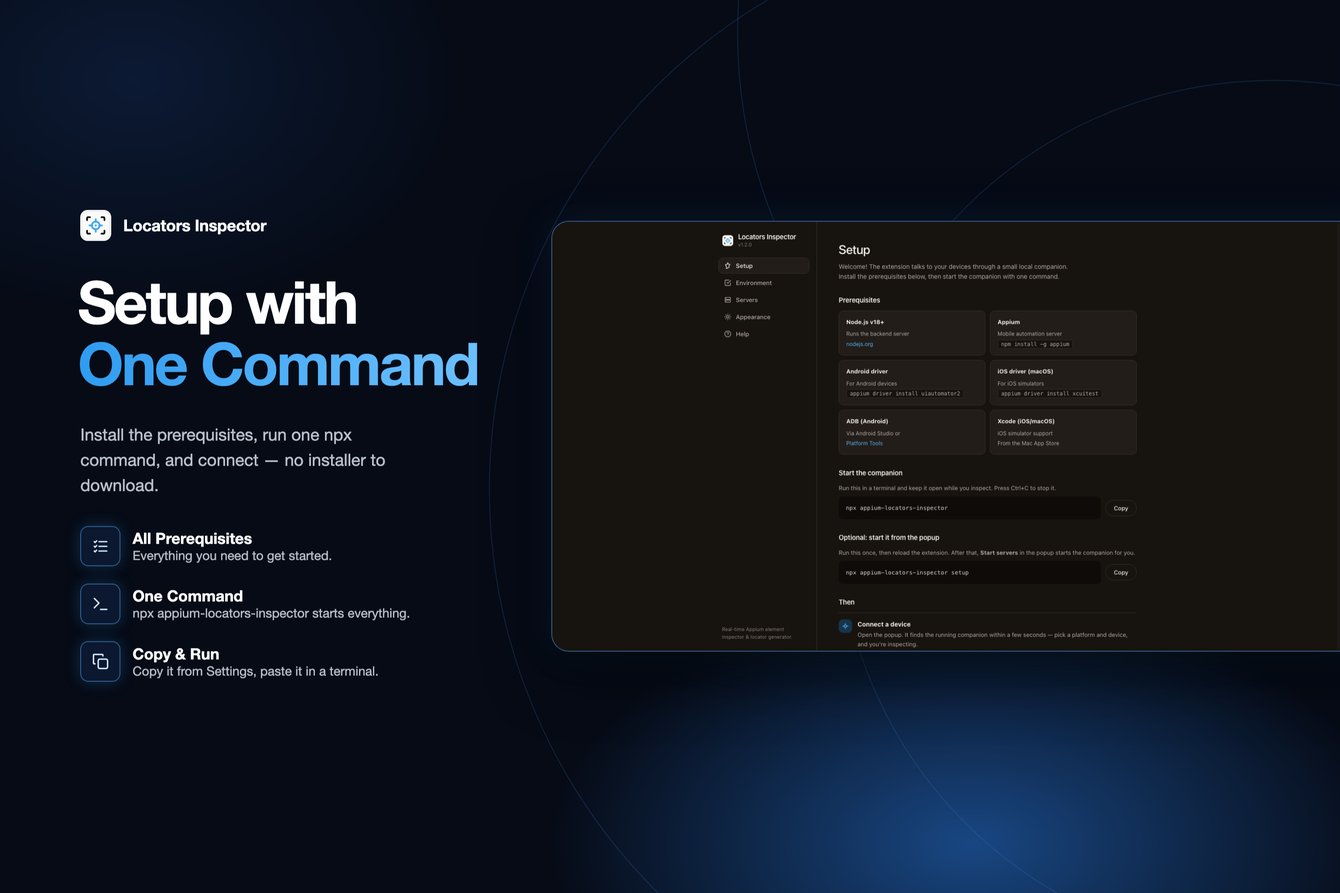
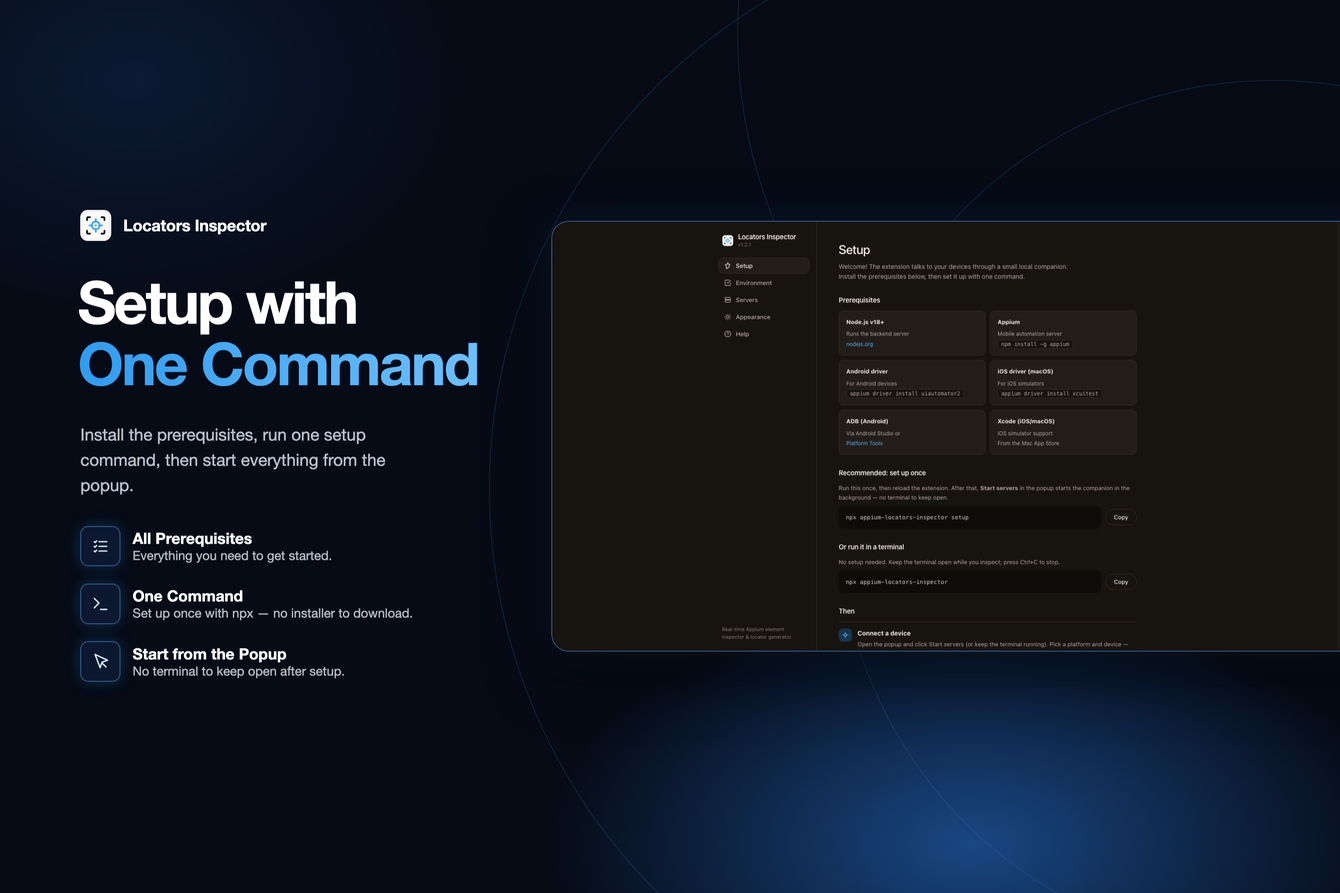
feat: recommend one-time setup over a terminal (v1.2.1) (#5)
`setup` lets the popup's Start servers run the companion in the
background, which suits everyday use better than keeping a terminal
open. Make it the recommended path everywhere:

- options Setup pane: "Recommended: set up once" first, then "Or run it
  in a terminal"
- popup setup modal: setup command first (with --extension-id for
  unpacked builds), terminal command second
- CLI: help lists setup as recommended; a foreground run suggests setup
  when it has not been done
- environment check, README and npm README follow the same order
- fix: "Connect a device" hint wrapped mid-sentence (<strong> is a block
  in .hint-row)
- docs: refreshed setup screenshot and hero image

diff --git a/tests/extension/pages.parity.test.ts b/tests/extension/pages.parity.test.ts
@@ -106,7 +106,7 @@ describe('popup UI parity', () => {
 
 /* ── Popup: npx companion (new in 1.2.0, no legacy equivalent) ── */
 describe('popup with the npx companion', () => {
-    const setupReply = { success: false, code: 'COMPANION_SETUP_REQUIRED', error: 'Start the local companion with: npx appium-locators-inspector' };
+    const setupReply = { success: false, code: 'COMPANION_SETUP_REQUIRED', error: 'Set up the local companion once with: npx appium-locators-inspector setup' };
 
     async function openModern(state: Parameters<typeof popupOptions>[0]): Promise<Page> {
         const page = await openPage(popupOptions(state), { modern: ['popup/popup.ts'] });
@@ -114,17 +114,22 @@ describe('popup with the npx companion', () => {
         return page;
     }
 
-    it('shows the npx command with a Copy button when nothing is running', async () => {
+    it('recommends setup first, then the terminal command, when nothing is running', async () => {
         const page = await openModern({ backend: false, appium: false, serverReply: setupReply });
         click(page, page.document.getElementById('server-btn'));
         await page.settle();
         const modal = page.document.getElementById('error-modal')!;
         expect(modal.classList.contains('hidden')).toBe(false);
         expect(page.document.getElementById('error-modal-title')!.textContent).toBe('Start the companion');
-        expect(modal.querySelector('.cmd-code')!.textContent).toBe('npx appium-locators-inspector');
-        click(page, modal.querySelector('.cmd-row button'));
+        const items = Array.from(modal.querySelectorAll('.error-item'));
+        expect(items.map((i) => i.querySelector('.error-server')!.textContent)).toEqual(['Recommended: set up once', 'Or run it in a terminal']);
+        expect(items.map((i) => i.querySelector('.cmd-code')!.textContent)).toEqual([
+            'npx appium-locators-inspector setup --extension-id testextensionidaaaaaaaaaaaaaaaa',
+            'npx appium-locators-inspector'
+        ]);
+        for (const item of items) click(page, item.querySelector('.cmd-row button'));
         await page.settle();
-        expect(page.clipboard).toEqual(['npx appium-locators-inspector']);
+        expect(page.clipboard).toEqual(['npx appium-locators-inspector setup --extension-id testextensionidaaaaaaaaaaaaaaaa', 'npx appium-locators-inspector']);
         click(page, page.document.getElementById('error-help-btn'));
         expect(page.runtimeMessages.some((m) => m.type === '__openOptionsPage')).toBe(true);
     });
@@ -232,13 +237,15 @@ describe('options page with the npx companion', () => {
         return page;
     }
 
-    it('shows copyable start and setup commands for this extension ID', async () => {
+    it('shows setup as the recommended command, then the terminal command', async () => {
         const page = await openModern({ success: true, checks: [] });
-        expect(page.document.getElementById('cmd-start')!.textContent).toBe('npx appium-locators-inspector');
+        const headings = Array.from(page.document.querySelectorAll('#pane-setup h3')).map((h) => h.textContent);
+        expect(headings).toEqual(['Prerequisites', 'Recommended: set up once', 'Or run it in a terminal', 'Then']);
         expect(page.document.getElementById('cmd-setup')!.textContent).toBe('npx appium-locators-inspector setup --extension-id testextensionidaaaaaaaaaaaaaaaa');
+        expect(page.document.getElementById('cmd-start')!.textContent).toBe('npx appium-locators-inspector');
         for (const btn of Array.from(page.document.querySelectorAll('.cmd-copy'))) click(page, btn);
         await page.settle();
-        expect(page.clipboard).toEqual(['npx appium-locators-inspector', 'npx appium-locators-inspector setup --extension-id testextensionidaaaaaaaaaaaaaaaa']);
+        expect(page.clipboard).toEqual(['npx appium-locators-inspector setup --extension-id testextensionidaaaaaaaaaaaaaaaa', 'npx appium-locators-inspector']);
         expect(page.document.querySelector('.cmd-copy')!.textContent).toBe('Copied!');
         expect(page.document.getElementById('download-mac')).toBeNull();
         expect(page.document.querySelector('.rail-brand .ver')!.textContent).toBe('v1.0.0');
@@ -255,7 +262,7 @@ describe('options page with the npx companion', () => {
         await page.settle(20);
         const text = page.document.getElementById('check-result')!.textContent!;
         expect(text).toContain('All good');
-        expect(text).toContain('optional — run npx appium-locators-inspector setup to enable it');
+        expect(text).toContain('recommended — run npx appium-locators-inspector setup --extension-id testextensionidaaaaaaaaaaaaaaaa so the popup starts the companion without a terminal');
         expect(page.document.getElementById('check-result')!.innerHTML).toContain('adb &lt;sdk&gt;');
     });
 
@@ -265,6 +272,7 @@ describe('options page with the npx companion', () => {
         await page.settle(20);
         const text = page.document.getElementById('check-result')!.textContent!;
         expect(text).toContain('2 items need attention.');
-        expect(text).toContain('not running — run npx appium-locators-inspector');
+        expect(text).toContain('not set up — run npx appium-locators-inspector setup --extension-id testextensionidaaaaaaaaaaaaaaaa (recommended), or npx appium-locators-inspector');
+        expect(text).toContain('not running — click Start servers in the popup, or run npx appium-locators-inspector');
     });
 });

diff --git a/src/extension/options.html b/src/extension/options.html
@@ -325,7 +325,7 @@
             <!-- Setup -->
             <section class="settings-pane active" id="pane-setup">
                 <h1 class="pane-title">Setup</h1>
-                <p class="pane-lead">Welcome! The extension talks to your devices through a small local companion. Install the prerequisites below, then start the companion with one command.</p>
+                <p class="pane-lead">Welcome! The extension talks to your devices through a small local companion. Install the prerequisites below, then set it up with one command.</p>
 
                 <h3>Prerequisites</h3>
                 <div class="prereq-grid">
@@ -337,24 +337,24 @@
                     <div class="prereq-item"><strong>Xcode (iOS/macOS)</strong><span>iOS simulator support<br>From the Mac App Store</span></div>
                 </div>
 
-                <h3>Start the companion</h3>
-                <p class="cmd-note">Run this in a terminal and keep it open while you inspect. Press Ctrl+C to stop it.</p>
-                <div class="cmd-row">
-                    <pre><code id="cmd-start">npx appium-locators-inspector</code></pre>
-                    <button class="btn btn-secondary cmd-copy" data-copy="cmd-start" type="button">Copy</button>
-                </div>
-
-                <h3>Optional: start it from the popup</h3>
-                <p class="cmd-note">Run this once, then reload the extension. After that, <strong>Start servers</strong> in the popup starts the companion for you.</p>
+                <h3>Recommended: set up once</h3>
+                <p class="cmd-note">Run this once, then reload the extension. After that, <strong>Start servers</strong> in the popup starts the companion in the background — no terminal to keep open.</p>
                 <div class="cmd-row">
                     <pre><code id="cmd-setup">npx appium-locators-inspector setup</code></pre>
                     <button class="btn btn-secondary cmd-copy" data-copy="cmd-setup" type="button">Copy</button>
                 </div>
 
+                <h3>Or run it in a terminal</h3>
+                <p class="cmd-note">No setup needed. Keep the terminal open while you inspect; press Ctrl+C to stop.</p>
+                <div class="cmd-row">
+                    <pre><code id="cmd-start">npx appium-locators-inspector</code></pre>
+                    <button class="btn btn-secondary cmd-copy" data-copy="cmd-start" type="button">Copy</button>
+                </div>
+
                 <h3>Then</h3>
                 <div class="hint-row">
                     <span class="hint-ico"><svg viewBox="0 0 24 24" fill="none" stroke="currentColor" stroke-width="2" stroke-linecap="round" stroke-linejoin="round"><circle cx="12" cy="12" r="4"/><path d="M12 3v4M12 17v4M3 12h4M17 12h4"/></svg></span>
-                    <div><strong>Connect a device</strong><p>Open the popup. It finds the running companion within a few seconds — pick a platform and device, and you're inspecting.</p></div>
+                    <div><strong>Connect a device</strong><p>Open the popup and click Start servers (or keep the terminal running). Pick a platform and device — and you're inspecting.</p></div>
                 </div>
             </section>
 
@@ -421,8 +421,8 @@
                     <table>
                         <thead><tr><th>Issue</th><th>Solution</th></tr></thead>
                         <tbody>
-                            <tr><td>Popup says the companion isn't running</td><td>Run <code>npx appium-locators-inspector</code> and keep the terminal open.</td></tr>
-                            <tr><td>"Native messaging host not found"</td><td>Only needed for the popup's Start button: run <code>npx appium-locators-inspector setup</code>, then reload the extension.</td></tr>
+                            <tr><td>"Native messaging host not found"</td><td>Run <code>npx appium-locators-inspector setup</code>, then reload the extension.</td></tr>
+                            <tr><td>Start servers does nothing after an update</td><td>Click Stop servers, run <code>npx appium-locators-inspector setup</code> again, then reload the extension.</td></tr>
                             <tr><td>Port 8765 already in use</td><td>Another companion is running. Stop it, or start with <code>--port</code> and set the same port under Settings.</td></tr>
                             <tr><td>Appium not found</td><td><code>npm install -g appium</code></td></tr>
                             <tr><td>No Android devices</td><td>Run <code>adb devices</code> in a terminal. Enable USB debugging.</td></tr>

diff --git a/src/extension/options/environment-check.ts b/src/extension/options/environment-check.ts
@@ -1,5 +1,7 @@
 import type { DiagnosticCheck, SetupDiagnostics } from '../../shared/protocol.js';
-import { NATIVE_HOST_NAME, SETUP_COMMAND, START_COMMAND, STORE_EXTENSION_ID } from '../../shared/defaults.js';
+import { NATIVE_HOST_NAME, setupCommandFor, START_COMMAND } from '../../shared/defaults.js';
+
+export { setupCommandFor };
 import { escapeHtml } from '../lib/html.js';
 import type { SetupCheckResponse } from '../lib/messages.js';
 
@@ -11,10 +13,11 @@ const DIAGNOSTICS_TIMEOUT_MS = 12_000;
  * companion started with npx is already running.
  */
 export function companionChecks(setup: SetupCheckResponse, extensionId: string, backendRunning = false): DiagnosticCheck[] {
+    const setupCommand = setupCommandFor(extensionId);
     if (!setup.success || !setup.diagnostics) {
         return [backendRunning
-            ? { name: 'Start button (native host)', ok: false, warn: true, detail: `optional — run ${SETUP_COMMAND} to enable it` }
-            : { name: 'Companion', ok: false, detail: `not running — run ${START_COMMAND}` }];
+            ? { name: 'Start button (native host)', ok: false, warn: true, detail: `recommended — run ${setupCommand} so the popup starts the companion without a terminal` }
+            : { name: 'Companion', ok: false, detail: `not set up — run ${setupCommand} (recommended), or ${START_COMMAND}` }];
     }
     const d: SetupDiagnostics = setup.diagnostics;
     return [
@@ -23,10 +26,10 @@ export function companionChecks(setup: SetupCheckResponse, extensionId: string, 
         {
             name: 'Backend installed',
             ok: d.backendInstalled,
-            detail: d.backendInstalled ? `${d.companionVersion ? `v${d.companionVersion} · ` : ''}${d.backendPath}` : `missing — run ${SETUP_COMMAND}`
+            detail: d.backendInstalled ? `${d.companionVersion ? `v${d.companionVersion} · ` : ''}${d.backendPath}` : `missing — run ${setupCommand}`
         },
-        { name: 'Dependencies installed', ok: d.dependenciesInstalled, detail: d.dependenciesInstalled ? 'ready' : `run ${SETUP_COMMAND}` },
-        { name: 'Extension ID (allowed_origins)', ok: d.extensionAllowed, detail: `${extensionId}${d.extensionAllowed ? '' : ` — not allowed, run ${SETUP_COMMAND} --extension-id ${extensionId}`}` }
+        { name: 'Dependencies installed', ok: d.dependenciesInstalled, detail: d.dependenciesInstalled ? 'ready' : `run ${setupCommand}` },
+        { name: 'Extension ID (allowed_origins)', ok: d.extensionAllowed, detail: `${extensionId}${d.extensionAllowed ? '' : ` — not allowed, run ${setupCommand}`}` }
     ];
 }
 
@@ -36,7 +39,7 @@ export async function backendChecks(port: string | number): Promise<DiagnosticCh
         const data = (await response.json()) as { success?: boolean; checks?: DiagnosticCheck[] };
         return data.success && Array.isArray(data.checks) ? data.checks : [];
     } catch {
-        return [{ name: 'Backend server', ok: false, detail: `not running — run ${START_COMMAND}` }];
+        return [{ name: 'Backend server', ok: false, detail: `not running — click Start servers in the popup, or run ${START_COMMAND}` }];
     }
 }
 
@@ -59,7 +62,3 @@ export function renderChecks(checks: DiagnosticCheck[]): string {
     return summary + rows;
 }
 
-/** `setup` must allow this extension's ID; the store build is allowed by default. */
-export function setupCommandFor(extensionId: string): string {
-    return extensionId === STORE_EXTENSION_ID ? SETUP_COMMAND : `${SETUP_COMMAND} --extension-id ${extensionId}`;
-}

diff --git a/src/extension/popup/error-modal.ts b/src/extension/popup/error-modal.ts
@@ -1,4 +1,4 @@
-import { START_COMMAND } from '../../shared/defaults.js';
+import { setupCommandFor, START_COMMAND } from '../../shared/defaults.js';
 import { copyText } from '../lib/clipboard.js';
 import { byId } from '../lib/html.js';
 import type { ServerStartError } from '../lib/messages.js';
@@ -22,19 +22,19 @@ function errorItem(title: string, text: string): HTMLElement {
     return item;
 }
 
-/** "Start the companion" card: the npx command with a Copy button. */
-function startCommandItem(): HTMLElement {
-    const item = errorItem('Start the local companion', 'Run this in a terminal and keep it open. The popup picks it up within a few seconds.');
+/** A card with a command and a Copy button. */
+function commandItem(title: string, text: string, command: string): HTMLElement {
+    const item = errorItem(title, text);
     const row = document.createElement('div');
     row.className = 'cmd-row';
     const code = document.createElement('code');
     code.className = 'cmd-code';
-    code.textContent = START_COMMAND;
+    code.textContent = command;
     const copy = document.createElement('button');
     copy.type = 'button';
     copy.className = 'btn btn-quiet btn-sm';
     copy.textContent = 'Copy';
-    copy.addEventListener('click', () => void copyText(START_COMMAND, copy));
+    copy.addEventListener('click', () => void copyText(command, copy));
     row.append(code, copy);
     item.appendChild(row);
     return item;
@@ -65,7 +65,16 @@ export function createErrorModal({ onHelp }: { onHelp: () => void }) {
             if (helpBtn) helpBtn.textContent = setupRequired ? 'More setup options' : 'Open settings';
 
             if (setupRequired) {
-                body.appendChild(startCommandItem());
+                body.appendChild(commandItem(
+                    'Recommended: set up once',
+                    'Run this, then reload the extension. Start servers will then work from here — no terminal to keep open.',
+                    setupCommandFor(chrome.runtime.id)
+                ));
+                body.appendChild(commandItem(
+                    'Or run it in a terminal',
+                    'Keep the terminal open. The popup picks it up within a few seconds.',
+                    START_COMMAND
+                ));
             } else {
                 errors.forEach((error) => {
                     body.appendChild(errorItem(error.server ? `${error.server} needs attention:` : 'Needs attention:', error.error ?? ''));

diff --git a/tests/cli/cli.e2e.test.ts b/tests/cli/cli.e2e.test.ts
@@ -57,6 +57,7 @@ describe('companion start', () => {
         const health = await (await fetch(`http://127.0.0.1:${port}/health`)).json();
         expect(health).toEqual({ status: 'ok', fps: '30', appiumPort: String(appiumPort) });
         expect(lines).toContain('Appium Locators Inspector companion is running.');
+        expect(lines.some((l) => l.startsWith('Tip:'))).toBe(false);
 
         await fetch(`http://127.0.0.1:${port}/api/shutdown`, { method: 'POST' });
         expect(await running).toBe(0);
@@ -68,8 +69,9 @@ describe('companion start', () => {
         const appiumPort = (appium.address() as { port: number }).port;
         const port = await freePort();
         const { lines, out } = capture();
-        const running = runCompanion(pkg, { port, appiumPort, fps: 3, appium: true, verbose: false, appiumLogFile: join(pkg, 'appium.log') }, out);
+        const running = runCompanion(pkg, { port, appiumPort, fps: 3, appium: true, verbose: false, appiumLogFile: join(pkg, 'appium.log'), showSetupTip: true }, out);
         await until(() => lines.some((l) => l.startsWith('[backend] listening')));
+        expect(lines).toContain('Tip: run "npx appium-locators-inspector setup" once, and the popup\'s Start servers');
         expect(lines).toContain(`Using the Appium server already running on port ${appiumPort}.`);
         await fetch(`http://127.0.0.1:${port}/api/shutdown`, { method: 'POST' });
         expect(await running).toBe(0);
@@ -120,7 +122,7 @@ describe('cli main', () => {
         console.error = (l: string) => logs.push(`ERR ${l}`);
         try {
             expect(await main(['--help'], pkg)).toBe(0);
-            expect(logs.at(-1)).toContain('npx appium-locators-inspector setup');
+            expect(logs.at(-1)).toMatch(/setup +Recommended, once/);
             expect(await main(['-v'], pkg)).toBe(0);
             expect(logs.at(-1)).toBe('1.2.0');
             expect(await main(['bogus'], pkg)).toBe(2);

diff --git a/src/cli/cli.ts b/src/cli/cli.ts
@@ -4,14 +4,15 @@ import { parseArgs } from 'node:util';
 import { DEFAULT_APPIUM_PORT, DEFAULT_BACKEND_PORT, NPM_PACKAGE_NAME } from '../shared/defaults.js';
 import { DEFAULT_SCREEN_FPS, normalizeScreenFps } from '../shared/fps.js';
 import { parsePort } from '../shared/validation.js';
-import { installBaseOf, installCompanion, packageVersion, uninstallCompanion } from './setup.js';
+import { installBaseOf, installCompanion, isCompanionInstalled, packageVersion, uninstallCompanion } from './setup.js';
 import { runCompanion, type Output } from './start.js';
 
 const HELP = `Appium Locators Inspector companion
 
 Usage:
-  npx ${NPM_PACKAGE_NAME}            Start the companion (backend + Appium). Ctrl+C stops it.
-  npx ${NPM_PACKAGE_NAME} setup      Optional: let the extension's "Start servers" button start it.
+  npx ${NPM_PACKAGE_NAME} setup      Recommended, once: the popup's "Start servers" then starts
+                                           the companion in the background (no terminal needed).
+  npx ${NPM_PACKAGE_NAME}            Or run it in this terminal (backend + Appium). Ctrl+C stops it.
   npx ${NPM_PACKAGE_NAME} uninstall  Remove what "setup" installed.
 
 Options:
@@ -71,7 +72,8 @@ export async function main(argv: string[], packageDir: string): Promise<number> 
                 fps: normalizeScreenFps(values.fps),
                 appium: !values['no-appium'],
                 verbose: !!values.verbose,
-                appiumLogFile: join(installBaseOf(homedir()), 'appium.log')
+                appiumLogFile: join(installBaseOf(homedir()), 'appium.log'),
+                showSetupTip: !isCompanionInstalled(homedir())
             }, out);
         case 'setup': {
             const result = installCompanion({

diff --git a/tests/extension/units.test.ts b/tests/extension/units.test.ts
@@ -117,16 +117,19 @@ describe('environment check', () => {
         expect(html).toContain('a &amp; b');
     });
 
-    it('asks to start the companion when nothing runs', () => {
-        expect(companionChecks({ success: false, nativeHost: false }, 'id')).toEqual([
-            { name: 'Companion', ok: false, detail: 'not running — run npx appium-locators-inspector' }
+    it('recommends setup when nothing runs', () => {
+        expect(companionChecks({ success: false, nativeHost: false }, 'annejeomdlkidljonmpmhcdnekkadjfb')).toEqual([
+            { name: 'Companion', ok: false, detail: 'not set up — run npx appium-locators-inspector setup (recommended), or npx appium-locators-inspector' }
         ]);
     });
 
-    it('only warns about the native host while an npx companion runs', () => {
-        expect(companionChecks({ success: false, nativeHost: false }, 'id', true)).toEqual([
-            { name: 'Start button (native host)', ok: false, warn: true, detail: 'optional — run npx appium-locators-inspector setup to enable it' }
-        ]);
+    it('recommends setup while an npx companion runs, with this build\'s extension ID', () => {
+        expect(companionChecks({ success: false, nativeHost: false }, 'abcdefghijklmnopabcdefghijklmnop', true)).toEqual([{
+            name: 'Start button (native host)',
+            ok: false,
+            warn: true,
+            detail: 'recommended — run npx appium-locators-inspector setup --extension-id abcdefghijklmnopabcdefghijklmnop so the popup starts the companion without a terminal'
+        }]);
     });
 
     it('adds --extension-id for builds other than the store one', () => {

diff --git a/src/cli/start.ts b/src/cli/start.ts
@@ -4,6 +4,7 @@ import { dirname } from 'node:path';
 import { join } from 'node:path';
 import { buildSpawnEnv, findAppium } from '../native-host/environment.js';
 import { killProcessTree } from '../native-host/ports.js';
+import { SETUP_COMMAND } from '../shared/defaults.js';
 import { isPortInUse } from './ports.js';
 
 export interface StartOptions {
@@ -15,6 +16,8 @@ export interface StartOptions {
     /** Print Appium's own log here instead of writing it to appiumLogFile. */
     verbose: boolean;
     appiumLogFile: string;
+    /** Suggest `setup` (not yet done) so the user needs no terminal next time. */
+    showSetupTip?: boolean;
 }
 
 export interface Output {
@@ -92,6 +95,11 @@ export async function runCompanion(packageDir: string, opts: StartOptions, out: 
     out.log('');
     out.log('Appium Locators Inspector companion is running.');
     out.log('Open the extension popup and pick your device. Press Ctrl+C here to stop.');
+    if (opts.showSetupTip) {
+        out.log('');
+        out.log(`Tip: run "${SETUP_COMMAND}" once, and the popup's Start servers`);
+        out.log('button will start the companion for you, with no terminal to keep open.');
+    }
     out.log('');
 
     return new Promise((resolve) => {

diff --git a/tests/cli/setup.test.ts b/tests/cli/setup.test.ts
@@ -3,7 +3,7 @@ import { tmpdir } from 'node:os';
 import { join } from 'node:path';
 import { afterEach, beforeEach, describe, expect, it } from 'vitest';
 import {
-    allowedExtensionIds, browserTargets, installCompanion, packageVersion, uninstallCompanion, unixHostScript, windowsHostScript
+    allowedExtensionIds, browserTargets, installCompanion, isCompanionInstalled, packageVersion, uninstallCompanion, unixHostScript, windowsHostScript
 } from '../../src/cli/setup.js';
 
 const STORE = 'chrome-extension://annejeomdlkidljonmpmhcdnekkadjfb/';
@@ -32,7 +32,9 @@ describe('setup on macOS', () => {
         // A leftover from the old installer.
         mkdirSync(join(home, '.appium_locators_inspector', 'backend', 'node_modules'), { recursive: true });
 
+        expect(isCompanionInstalled(home)).toBe(false);
         const result = installCompanion({ home, platform: 'darwin', packageDir: pkg, nodePath: '/opt/node/bin/node', extraExtensionIds: [DEV_ID] });
+        expect(isCompanionInstalled(home)).toBe(true);
         const base = join(home, '.appium_locators_inspector');
         expect(result.installedFor).toEqual(['Google Chrome']);
         expect(result.skipped).toEqual(['Chromium', 'Microsoft Edge', 'Brave Browser']);

diff --git a/tests/extension/background-entry.test.ts b/tests/extension/background-entry.test.ts
@@ -110,7 +110,7 @@ describe('background service worker', () => {
     it('explains a missing companion and answers stop/start without a port', async () => {
         nativeAvailable = false;
         ports[0]!.drop('Specified native messaging host not found.');
-        expect(broadcasts).toContainEqual({ type: 'native-host-error', error: 'Start the local companion with: npx appium-locators-inspector', needsHelp: true });
+        expect(broadcasts).toContainEqual({ type: 'native-host-error', error: 'Set up the local companion once with: npx appium-locators-inspector setup', needsHelp: true });
         expect(broadcasts.at(-1)).toMatchObject({ type: 'server-start-error', errors: [{ code: 'COMPANION_SETUP_REQUIRED' }] });
 
         let stop: any;

diff --git a/src/cli/setup.ts b/src/cli/setup.ts
@@ -34,6 +34,11 @@ export function installBaseOf(home: string): string {
     return join(home, '.appium_locators_inspector');
 }
 
+/** True after `setup` (a native host manifest exists). */
+export function isCompanionInstalled(home: string): boolean {
+    return existsSync(join(installBaseOf(home), 'native-host', `${NATIVE_HOST_NAME}.json`));
+}
+
 export function browserTargets(home: string, platform: NodeJS.Platform): BrowserTarget[] {
     if (platform === 'darwin') {
         const support = join(home, 'Library', 'Application Support');

diff --git a/src/extension/background/native-errors.ts b/src/extension/background/native-errors.ts
@@ -1,8 +1,8 @@
-import { SETUP_COMMAND, START_COMMAND } from '../../shared/defaults.js';
+import { SETUP_COMMAND } from '../../shared/defaults.js';
 import type { NativeMessage, ProcessStartResult } from '../../shared/protocol.js';
 import type { ServerStartError } from '../lib/messages.js';
 
-export const SETUP_REQUIRED_MESSAGE = `Start the local companion with: ${START_COMMAND}`;
+export const SETUP_REQUIRED_MESSAGE = `Set up the local companion once with: ${SETUP_COMMAND}`;
 
 export interface DisconnectExplanation {
     message: string;
